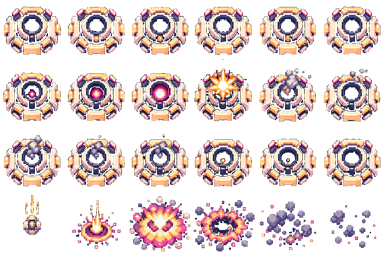
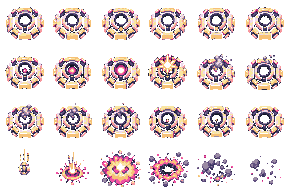
Render the board as pixel art matching the tower art, start music on launch
Claude-Session: https://claude.ai/code/session_019s1rZHvGTJBLbSA3LxereV

diff --git a/src/main.js b/src/main.js
@@ -700,7 +700,8 @@ function nextSong(step = 1) {
 }
 bgm.addEventListener('ended', () => nextSong());
 // browsers only allow audio after the player interacts with the page
-const startMusic = () => { if (!bgmStarted) playSong(SETTINGS.song); };
+const startMusic = () => { if (!bgm.dataset.song) playSong(SETTINGS.song); else applyMusic(); };
+playSong(SETTINGS.song);
 window.addEventListener('pointerdown', startMusic, { once: true });
 window.addEventListener('keydown', startMusic, { once: true });
 
@@ -2642,42 +2643,57 @@ function updateHud() {
   if (--heroT <= 0) { heroT = 3; renderHero(); }
 }
 
-// The board uses the same 3/4 top-down view as the tower art: the ground is a raised floor of tiles and the
-// path is a sunken lane, so the ground's south-facing edge shows as a lit wall along the lane's north side.
-// Redrawn only when the map changes.
+// The board is pixel art in the same 3/4 top-down view, palette and light (from the upper left) as the
+// tower art. The game renders at PX canvas pixels per world unit, so one 40-unit tile is 32 art pixels,
+// the size the art was drawn for. The ground is raised metal plating; the path is a sunken lane, so the
+// plating's south face shows as a wall along the lane's north side. Redrawn only when the map changes.
+const PX = 0.8, TILE = C * PX;
+const PAL = { ink: '#101223', deep: '#24243D', dusk: '#3B3561', violet: '#625080', mist: '#9B8BA5' };
 let groundFor = null;
-function drawGround(b) {
-  b.clear(); groundFor = pathCells;
-  const lane = (c, r) => pathCells.has(c + ',' + r);
+function drawGround(sc) {
+  groundFor = pathCells;
+  if (!sc.textures.exists('ground')) sc.ground = sc.add.image(0, 0, sc.textures.createCanvas('ground', COLS * TILE, ROWS * TILE)).setOrigin(0).setScale(1 / PX).setDepth(-1);
+  const tex = sc.textures.get('ground'), x2 = tex.getContext(), lane = (c, r) => pathCells.has(c + ',' + r);
+  const px = (x, y, w, h, col) => { x2.fillStyle = col; x2.fillRect(x, y, w, h); };
+  const hash = (c, r, i) => { let v = (c * 73856093) ^ (r * 19349663) ^ (i * 83492791); v = (v ^ (v >>> 13)) * 1274126177; return ((v ^ (v >>> 16)) >>> 0) / 4294967296; };
   for (let r = 0; r < ROWS; r++) for (let c = 0; c < COLS; c++) {
-    const x = c * C, y = r * C;
+    const x = c * TILE, y = r * TILE, T = TILE;
     if (lane(c, r)) {
-      b.fillStyle(0x1a2140, 1).fillRect(x, y, C, C);
-      if (r > 0 && !lane(c, r - 1)) { b.fillStyle(0x2a3360, 1).fillRect(x, y, C, 10); b.fillStyle(0x3d4a82, 1).fillRect(x, y, C, 2); }
-      if (c > 0 && !lane(c - 1, r)) b.fillStyle(0x121833, 1).fillRect(x, y, 3, C);
-      if (c < COLS - 1 && !lane(c + 1, r)) b.fillStyle(0x121833, 1).fillRect(x + C - 3, y, 3, C);
+      px(x, y, T, T, PAL.ink);
+      for (let i = 0; i < 5; i++) px(x + Math.floor(hash(c, r, i) * T), y + Math.floor(hash(c, r, i + 9) * T), 1, 1, PAL.deep);
+      px(x, y + T / 2 - 1, T, 1, PAL.deep); // worn centre track
+      if (r > 0 && !lane(c, r - 1)) { // the plating's south face
+        px(x, y, T, 8, PAL.dusk); px(x, y, T, 1, PAL.violet);
+        for (let i = 4; i < T; i += 8) px(x + i, y + 1, 1, 7, PAL.deep);
+        px(x, y + 8, T, 2, PAL.deep);
+      }
+      if (c > 0 && !lane(c - 1, r)) px(x, y, 2, T, PAL.deep); // shadow cast by the plating to the left
     } else {
-      b.fillStyle(0x070a13, 1).fillRect(x, y, C, C);
-      b.fillStyle(0x0f1426, 1).fillRect(x + 1, y + 1, C - 2, C - 5);
-      b.fillStyle(0x131a30, 1).fillRect(x + 1, y + 1, C - 2, 1);
+      px(x, y, T, T, PAL.deep);
+      px(x, y, T - 1, 1, PAL.dusk); px(x, y, 1, T - 1, PAL.dusk); // lit top and left bevel
+      px(x, y + T - 1, T, 1, PAL.ink); px(x + T - 1, y, 1, T, PAL.ink); // shaded seam
+      if (hash(c, r, 1) < 0.5) for (const [dx, dy] of [[3, 3], [T - 5, 3], [3, T - 5], [T - 5, T - 5]]) { px(x + dx, y + dy, 2, 2, PAL.ink); px(x + dx, y + dy, 1, 1, PAL.violet); }
+      else if (hash(c, r, 2) < 0.4) { px(x + 6, y + T / 2, T - 12, 1, PAL.ink); px(x + 6, y + T / 2 + 1, T - 12, 1, PAL.dusk); }
+      for (let i = 0; i < 3; i++) px(x + 2 + Math.floor(hash(c, r, i + 20) * (T - 4)), y + 2 + Math.floor(hash(c, r, i + 30) * (T - 4)), 1, 1, PAL.dusk);
     }
   }
-  if (WP[0].x < 0) { b.fillStyle(0x1a2140, 1).fillRect(0, Math.floor(WP[0].y / C) * C, 4, C); }
+  if (WP[0].x < 0) px(0, Math.floor(WP[0].y / C) * TILE, 3, TILE, PAL.dusk);
+  tex.refresh();
 }
-const shadow = (g, x, y, w) => g.fillStyle(0x000000, 0.35).fillEllipse(x, y, w, w * 0.35);
+const shadow = (g, x, y, w) => g.fillStyle(0x101223, 0.6).fillEllipse(x, y, w, w * 0.35);
 
-// Tower art: one sheet per tower, 4 rows of 6 frames (idle, attack, recover, hit effect), 64px frames.
-// s scales the body to fit a tile; oy is where the base sits in the frame. fx sets the hit effect's size
-// and anchor (bolts and lightning strike down onto the target). Merged towers keep their shapes.
+// Tower art: one sheet per tower, 4 rows of 6 frames (idle, attack, recover, hit effect). Frames are 48px
+// at the art's own pixel size and drawn 1:1 on the pixel grid. oy is where the base sits in the frame; fy
+// anchors the hit effect (bolts and lightning strike down onto the target). Merged towers keep their shapes.
 const ART_URLS = import.meta.glob('./assets/*.png', { eager: true, import: 'default' });
+const FRAME = 48;
 const ART = {
-  arcane: { s: 0.94, oy: 0.86, fx: 0.55, fy: 0.85 }, plasma: { s: 0.82, oy: 0.93, fx: 0.6 }, frost: { s: 0.85, oy: 0.92, fx: 0.5 },
-  tesla: { s: 0.9, oy: 0.91, fx: 0.6, fy: 0.85 }, beacon: { s: 0.74, oy: 0.89, fx: 0.9 }, anvil: { s: 0.82, oy: 0.89, fx: 0.9 },
-  laser: { s: 0.75, oy: 0.89, fx: 0.45 }, mortar: { s: 0.74, oy: 0.89, fx: 0.8 },
+  arcane: { oy: 38 / 48, fy: 0.75 }, plasma: { oy: 40 / 48 }, frost: { oy: 41 / 48 }, tesla: { oy: 38 / 48, fy: 0.75 },
+  beacon: { oy: 37 / 48 }, anvil: { oy: 39 / 48 }, laser: { oy: 36 / 48 }, mortar: { oy: 40 / 48 },
 };
 const spriteTower = t => !t.hybrid && !!ART[t.type];
 const towerSprites = new Map();
-function loadArt(sc) { for (const k in ART) sc.load.spritesheet(k, ART_URLS[`./assets/${k}.png`], { frameWidth: 64, frameHeight: 64 }); }
+function loadArt(sc) { for (const k in ART) sc.load.spritesheet(k, ART_URLS[`./assets/${k}.png`], { frameWidth: FRAME, frameHeight: FRAME }); }
 function makeAnims(sc) {
   for (const k in ART) {
     const a = (name, start, frameRate, repeat) => sc.anims.create({ key: k + '-' + name, frames: sc.anims.generateFrameNumbers(k, { start, end: start + 5 }), frameRate, repeat });
@@ -2692,14 +2708,14 @@ function syncSprites(sc) {
     const k = t.type, art = ART[k];
     let s = towerSprites.get(t);
     if (!s) {
-      s = sc.add.sprite(0, 0, k).setOrigin(0.5, art.oy).setScale(art.s);
+      s = sc.add.sprite(0, 0, k).setOrigin(0.5, art.oy).setScale(1 / PX);
       s.shot = t.shotAt; s.hit = t.firedAt; s.play(k + '-idle');
       s.on('animationcomplete', an => s.play(an.key === k + '-attack' ? k + '-recover' : k + '-idle'));
       towerSprites.set(t, s);
     }
     // the beacon has no shots: it pulses while a wave is on
     if (t.support && S.waveActive && S.time - (t.firedAt || -9) > 3) { t.shotAt = t.firedAt = S.time; t.hitAt = { x: t.x, y: t.y }; }
-    s.setPosition(t.x, t.y + 18).setDepth(1 + t.y / 1000).setTint(t.stunT > 0 ? 0x666677 : 0xffffff);
+    s.setPosition(t.x, t.y + 15).setDepth(1 + t.y / 1000).setTint(t.stunT > 0 ? 0x666677 : 0xffffff);
     s.anims.timeScale = speed;
     if (t.shotAt !== s.shot) {
       s.shot = t.shotAt;
@@ -2716,7 +2732,7 @@ let bursts = 0;
 function burst(sc, k, x, y, speed) {
   if (bursts >= 40 || !speed) return;
   bursts++;
-  const art = ART[k], f = sc.add.sprite(x, y, k).setOrigin(0.5, art.fy || 0.5).setScale(art.fx).setDepth(3).setAlpha(0.9);
+  const art = ART[k], f = sc.add.sprite(x, y, k).setOrigin(0.5, art.fy || 0.5).setScale(1 / PX).setDepth(3);
   f.anims.timeScale = speed; f.play(k + '-fx');
   f.once('animationcomplete', () => { f.destroy(); bursts--; });
 }
@@ -2798,7 +2814,9 @@ function draw(g, o) {
     if (e.unslow) { const back = posAt(Math.max(0, e.d - 18)); g.lineStyle(e.r, 0x4fa8ff, 0.35).lineBetween(back.x, back.y, e.x, e.y); }
     if (e.stillT > 0.5 && S.towers.some(t => t.type === 'anvil')) { const n = Math.min(6, 2 + Math.floor(e.stillT)); for (let i = 0; i < n; i++) { const a = i * 2.4; g.lineStyle(1.5, TOWERS.anvil.color, 0.7).lineBetween(e.x, e.y, e.x + Math.cos(a) * (e.r + 4 + e.stillT * 3), e.y + Math.sin(a) * (e.r + 4 + e.stillT * 3)); } }
     shadow(g, e.x, e.y + e.r * 0.85, e.r * 2.2);
+    g.fillStyle(0x101223, e.phase ? 0.45 : 1).fillCircle(e.x, e.y, e.r + 1.25);
     g.fillStyle(e.color, e.phase ? 0.45 : 1).fillCircle(e.x, e.y, e.r);
+    g.fillStyle(0xffffff, e.phase ? 0.15 : 0.35).fillCircle(e.x - e.r * 0.35, e.y - e.r * 0.35, e.r * 0.35);
     const arm = armorOf(e);
     if (arm > 0) g.lineStyle(1 + arm * 8, 0xb8c0d8, 0.85).strokeCircle(e.x, e.y, e.r);
     if (e.hexT > 0) { const a0 = S.time * 4; g.lineStyle(2, 0xb07cff, 0.9).beginPath(); g.arc(e.x, e.y, e.r + 5, a0, a0 + 4); g.strokePath(); }
@@ -2832,7 +2850,9 @@ function draw(g, o) {
     if (h.odT > 0) g.lineStyle(2, 0xff6f6f, 0.5 + 0.4 * Math.sin(S.time * 20)).strokeCircle(h.x, h.y, 24);
     shadow(g, h.x, h.y + 12, 30);
     g.fillStyle(hc, 0.2).fillCircle(h.x, h.y, 18);
+    g.fillStyle(0x101223, 1).fillCircle(h.x, h.y, 13.25);
     g.fillStyle(hc, 1).fillCircle(h.x, h.y, 12);
+    g.fillStyle(0xffffff, 0.35).fillCircle(h.x - 4, h.y - 4, 4);
     g.fillStyle(0x0b0f1c, 1).fillCircle(h.x, h.y, 5);
     g.fillStyle(0x000000, 0.6).fillRect(h.x - 16, h.y - 24, 32, 4);
     g.fillStyle(0x5fe39a, 1).fillRect(h.x - 16, h.y - 24, 32 * h.hp / h.maxHp, 4);
@@ -2875,11 +2895,13 @@ function draw(g, o) {
 }
 
 let hudT = 0, SCENE = null;
+const lineStyle0 = Phaser.GameObjects.Graphics.prototype.lineStyle;
+Phaser.GameObjects.Graphics.prototype.lineStyle = function (w, c, a) { return lineStyle0.call(this, Math.max(w, 1 / PX), c, a); };
 function shake(intensity, ms) { if (SCENE) SCENE.cameras.main.shake(ms, intensity); }
 class Main extends Phaser.Scene {
   preload() { loadArt(this); }
   create() {
-    this.ground = this.add.graphics().setDepth(-1);
+    this.cameras.main.setZoom(PX).centerOn(W / 2, H / 2);
     this.g = this.add.graphics(); this.o = this.add.graphics().setDepth(2); SCENE = this;
     makeAnims(this);
     this.input.mouse.disableContextMenu();
@@ -2901,7 +2923,7 @@ class Main extends Phaser.Scene {
   update(time, delta) {
     const dt = Math.min(delta / 1000, 0.05);
     update(dt);
-    if (groundFor !== pathCells) drawGround(this.ground);
+    if (groundFor !== pathCells) drawGround(this);
     syncSprites(this); draw(this.g, this.o);
     hudT -= dt; if (hudT <= 0) { hudT = 0.1; updateHud(); }
   }
@@ -2936,9 +2958,9 @@ window.addEventListener('keydown', e => {
   }
 });
 
-window.riftguard = { get state() { return S; } };
+window.riftguard = { get state() { return S; }, music: bgm };
 new Phaser.Game({
-  type: Phaser.AUTO, parent: 'board', width: W, height: H, backgroundColor: '#080b15',
+  type: Phaser.AUTO, parent: 'board', width: W * PX, height: H * PX, backgroundColor: '#101223', pixelArt: true, roundPixels: true,
   scale: { mode: Phaser.Scale.FIT, autoCenter: Phaser.Scale.CENTER_BOTH },
   scene: Main, banner: false,
 });

diff --git a/CHANGELOG.md b/CHANGELOG.md
@@ -2,6 +2,11 @@
 
 Every change to Riftguard, newest first. Each section matches a merged pull request, and each GitHub release uses the newest section as its notes.
 
+## 0.15: Pixel-art board and music fix
+
+- **The whole board is now pixel art in the same view as the tower art.** The game draws at the art's own pixel size (one tile is 32 art pixels) with hard pixel edges, and the ground is raised metal plating in the art's palette, lit from the upper left. The path is a sunken lane with the plating's wall along its far side. Tower art is redrawn pixel for pixel in the art bible's 16 colors, and enemies and the hero get dark outlines and a highlight to match.
+- **Music starts as soon as the desktop game opens.** In a browser it starts on your first click or key press, since browsers block sound until then.
+
 ## 0.14: Music and tower colors
 
 - **Background music.** The first song, **Riftwalker**, plays on the menus and during runs. A new **Music** button on the main menu lets you pick a song, play, pause, skip and seek, set the music volume, and choose a play mode (repeat one, play all, shuffle). Settings also has a music on/off switch and a music volume slider, separate from the sound effects.
